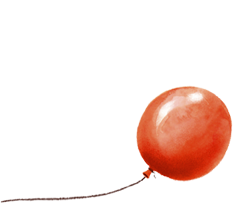
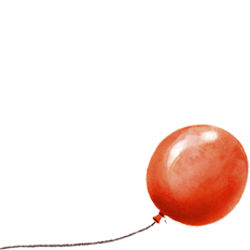
sizing

Changed region(s): [[0.0, 0.4138, 1.0, 1.0]]

diff --git a/storybook-holiday/new.html b/storybook-holiday/new.html
@@ -159,17 +159,17 @@ background-position: 0 0;
 /* ############################################ */
 .float {
     position: fixed;
-    width: 233px;
-    height: 203px;
+    width: 250px;
+    height: 250px;
     animation: float 10s cubic-bezier(0, 0, 0, 0) 2s both;
 }
 @keyframes float {
 0% {
-transform: translateX(-250px);
+transform: translateX(-260px);
 opacity: 0;
 }
 1% {
-transform: translateX(-250px);
+transform: translateX(-260px);
 opacity: 1;
 }
 99% {
